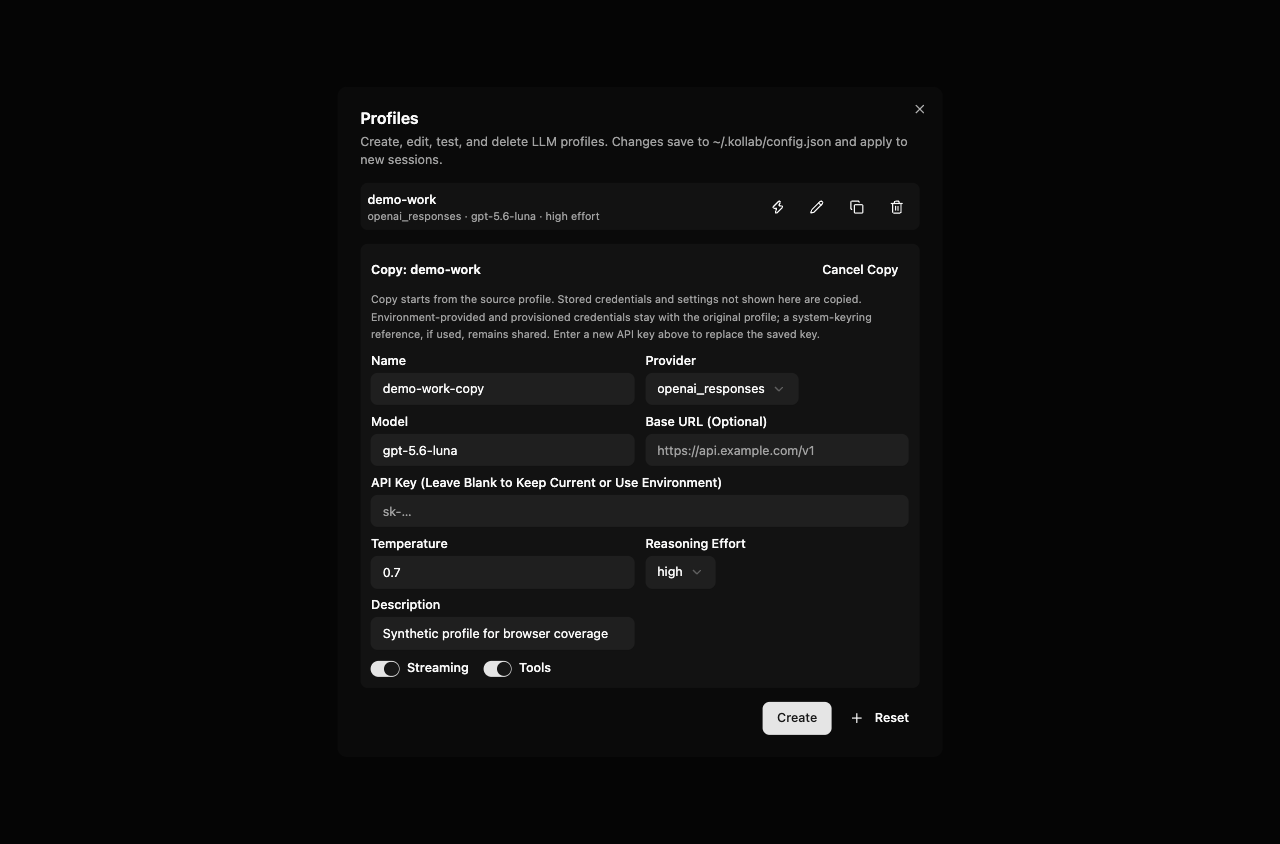
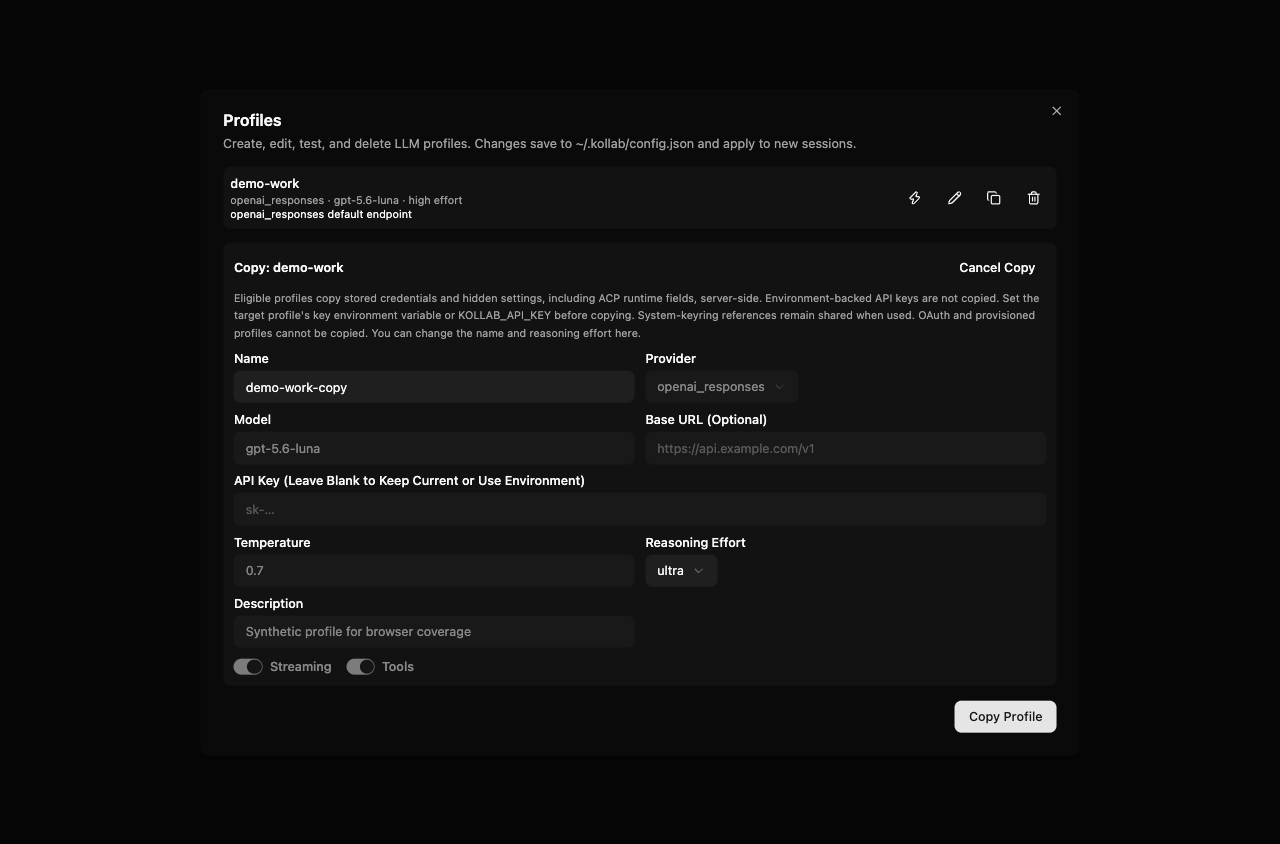
fix(profiles): preserve ACP copy persistence and effort controls

diff --git a/packages/kollabor-webui/frontend/src/api.ts b/packages/kollabor-webui/frontend/src/api.ts
@@ -171,6 +171,7 @@ export type ProfileWrite = {
   name: string;
   provider?: string;
   model?: string;
+  /** Copy an eligible stored profile by name; hidden fields remain server-side. */
   copy_from?: string;
   api_key?: string;
   base_url?: string;
@@ -184,8 +185,6 @@ export type ProfileWrite = {
   streaming?: boolean;
   supports_tools?: boolean;
   extra_headers?: Record<string, string>;
-  /** Copy this stored profile: its key and every field left out come along. */
-  copy_from?: string;
 };
 
 export type ProfileUpdate = Partial<Omit<ProfileWrite, "name" | "copy_from">> & {

diff --git a/packages/kollabor-engine/tests/test_profile_copy_and_effort_route.py b/packages/kollabor-engine/tests/test_profile_copy_and_effort_route.py
@@ -8,8 +8,6 @@ that a stored profile's effort reaches the provider config on switch. A copy
 sees its key or the settings the form has no field for.
 """
 
-from dataclasses import replace
-
 import pytest
 import pytest_asyncio
 from httpx import ASGITransport, AsyncClient
@@ -19,7 +17,7 @@ from kollabor_ai.providers.registry import create_config_from_profile
 
 
 class _Manager(ProfileManager):
-    """Real create/update logic, no config file."""
+    """Real create/update/copy logic with an observable config-save stub."""
 
     def __init__(self):
         self._profiles = {
@@ -29,18 +27,27 @@ class _Manager(ProfileManager):
                 provider="anthropic",
                 model="claude-x",
                 api_key="test-key",
+                auth_type="api_key",
                 effort="max",
+                timeout=600,
+                extra_headers={"x-team": "a"},
             ),
         }
+        self._invalid_profile_errors = {}
         self._active_profile_name = "other"
+        self.persisted_profiles = set()
 
     def save_profile_values_to_config(self, profile, *args, **kwargs):
+        self.persisted_profiles.add(profile.name)
         return True
 
-    def add_profile(self, profile, persist=False):
+    def add_profile(self, profile, save_to_config=False):
+        if profile.name in self._profiles:
+            return False
         self._profiles[profile.name] = profile
-
-    def save_to_config(self, *args, **kwargs):
+        if save_to_config and not self.save_profile_values_to_config(profile):
+            self._profiles.pop(profile.name, None)
+            return False
         return True
 
 
@@ -149,16 +156,7 @@ async def test_profile_effort_reaches_provider_config_on_switch(manager):
 
 
 @pytest.mark.asyncio
-async def test_copy_keeps_the_key_sign_in_and_unshown_settings(client, manager):
-    manager.add_profile(
-        replace(
-            manager.get_profile("pinned"),
-            timeout=600,
-            extra_headers={"x-team": "a"},
-            auth_type="oauth",
-        )
-    )
-
+async def test_copy_keeps_saved_key_and_unshown_settings(client, manager):
     response = await client.post(
         "/profiles",
         json={
@@ -172,11 +170,13 @@ async def test_copy_keeps_the_key_sign_in_and_unshown_settings(client, manager):
 
     assert response.status_code == 201
     assert "api_key" not in response.json()
+    assert "test-key" not in response.text
     copy = manager.get_profile("pinned-copy")
     assert copy.api_key == "test-key"
-    assert copy.auth_type == "oauth"
+    assert copy.auth_type == "api_key"
     assert (copy.timeout, copy.extra_headers) == (600, {"x-team": "a"})
     assert (copy.model, copy.effort) == ("claude-y", "")
+    assert "pinned-copy" in manager.persisted_profiles
     assert manager.get_profile("pinned").model == "claude-x"
 
 
@@ -189,12 +189,16 @@ async def test_copy_with_a_typed_key_uses_it(client, manager):
             "provider": "anthropic",
             "model": "claude-x",
             "api_key": "new-key",
+            "effort": "high",
             "copy_from": "pinned",
         },
     )
 
     assert response.status_code == 201
-    assert manager.get_profile("pinned-2").api_key == "new-key"
+    copy = manager.get_profile("pinned-2")
+    assert copy.api_key == "new-key"
+    assert copy.effort == "high"
+    assert "pinned-2" in manager.persisted_profiles
 
 
 @pytest.mark.asyncio
@@ -208,17 +212,53 @@ async def test_copy_of_a_missing_profile_is_404(client):
 
 
 @pytest.mark.asyncio
-@pytest.mark.parametrize("flag", ["is_provisioned", "api_key_from_env"])
-async def test_copy_never_moves_an_enrolled_or_environment_key(client, manager, flag):
+@pytest.mark.parametrize("auth_type,is_provisioned", [("oauth", False), ("api_key", True)])
+async def test_copy_rejects_oauth_and_provisioned_credentials(
+    client, manager, auth_type, is_provisioned
+):
     manager.add_profile(
         LLMProfile(
             name="held",
             provider="openai",
             model="gpt-4",
             api_key="held-secret",
-            **{flag: True},
+            auth_type=auth_type,
+            is_provisioned=is_provisioned,
         )
     )
+
+    response = await client.post(
+        "/profiles",
+        json={
+            "name": "held-copy",
+            "provider": "openai",
+            "model": "gpt-4",
+            "copy_from": "held",
+        },
+    )
+
+    assert response.status_code == 422
+    assert "cannot be copied" in response.text or "instead of copying" in response.text
+    assert manager.get_profile("held-copy") is None
+
+
+@pytest.mark.asyncio
+async def test_copy_of_env_key_uses_target_env_and_does_not_copy_secret(
+    client, manager, monkeypatch
+):
+    manager.add_profile(
+        LLMProfile(
+            name="held",
+            provider="openai",
+            model="gpt-4",
+            api_key="held-secret",
+            api_key_from_env=True,
+        )
+    )
+    target = LLMProfile(name="held-copy", provider="openai", model="gpt-4")
+    target_env = target._get_env_key("API_KEY")
+    monkeypatch.setenv(target_env, "target-secret")
+    monkeypatch.delenv("KOLLAB_API_KEY", raising=False)
 
     response = await client.post(
         "/profiles",
@@ -233,4 +273,38 @@ async def test_copy_never_moves_an_enrolled_or_environment_key(client, manager, 
     assert response.status_code == 201
     copy = manager.get_profile("held-copy")
     assert copy.api_key == ""
-    assert not copy.is_provisioned and not copy.api_key_from_env
+    assert copy.api_key_from_env
+    assert copy.get_api_key() == "target-secret"
+    assert "held-secret" not in response.text
+    assert "held-copy" in manager.persisted_profiles
+
+
+@pytest.mark.asyncio
+async def test_copy_of_env_key_requires_target_env(client, manager, monkeypatch):
+    manager.add_profile(
+        LLMProfile(
+            name="held",
+            provider="openai",
+            model="gpt-4",
+            api_key="held-secret",
+            api_key_from_env=True,
+        )
+    )
+    target = LLMProfile(name="held-copy", provider="openai", model="gpt-4")
+    target_env = target._get_env_key("API_KEY")
+    monkeypatch.delenv(target_env, raising=False)
+    monkeypatch.delenv("KOLLAB_API_KEY", raising=False)
+
+    response = await client.post(
+        "/profiles",
+        json={
+            "name": "held-copy",
+            "provider": "openai",
+            "model": "gpt-4",
+            "copy_from": "held",
+        },
+    )
+
+    assert response.status_code == 422
+    assert target_env in response.text
+    assert manager.get_profile("held-copy") is None

diff --git a/packages/kollabor-engine/tests/test_profile_update_route.py b/packages/kollabor-engine/tests/test_profile_update_route.py
@@ -25,15 +25,17 @@ async def client(monkeypatch):
     import kollabor_engine.routes.profiles as profile_routes
     from kollabor_engine.server import create_app  # type: ignore[import-not-found]
 
-    monkeypatch.setattr(profile_routes, "_get_profile_manager", _Manager)
+    manager = _Manager()
+    monkeypatch.setattr(profile_routes, "_get_profile_manager", lambda: manager)
     async with AsyncClient(
         transport=ASGITransport(app=create_app()), base_url="http://test"
     ) as ac:
-        yield ac
+        yield ac, manager
 
 
 @pytest.mark.asyncio
-async def test_update_applies_streaming_tools_and_the_other_body_fields(client):
+async def test_update_applies_streaming_tools_and_redacts_header_values(client):
+    client, manager = client
     response = await client.put(
         "/profiles/edit-me",
         json={
@@ -41,7 +43,7 @@ async def test_update_applies_streaming_tools_and_the_other_body_fields(client):
             "supports_tools": False,
             "timeout": 30,
             "top_p": 0.5,
-            "extra_headers": {"x-probe": "1"},
+            "extra_headers": {"x-probe": "header-secret-value"},
             "temperature": 1.2,
         },
     )
@@ -50,4 +52,9 @@ async def test_update_applies_streaming_tools_and_the_other_body_fields(client):
     body = response.json()
     assert (body["streaming"], body["supports_tools"]) == (False, False)
     assert (body["timeout"], body["top_p"], body["temperature"]) == (30, 0.5, 1.2)
-    assert body["extra_headers"] == {"x-probe": "1"}
+    assert body["extra_header_names"] == ["x-probe"]
+    assert "extra_headers" not in body
+    assert "header-secret-value" not in response.text
+    assert manager.get_profile("edit-me").extra_headers == {
+        "x-probe": "header-secret-value"
+    }
